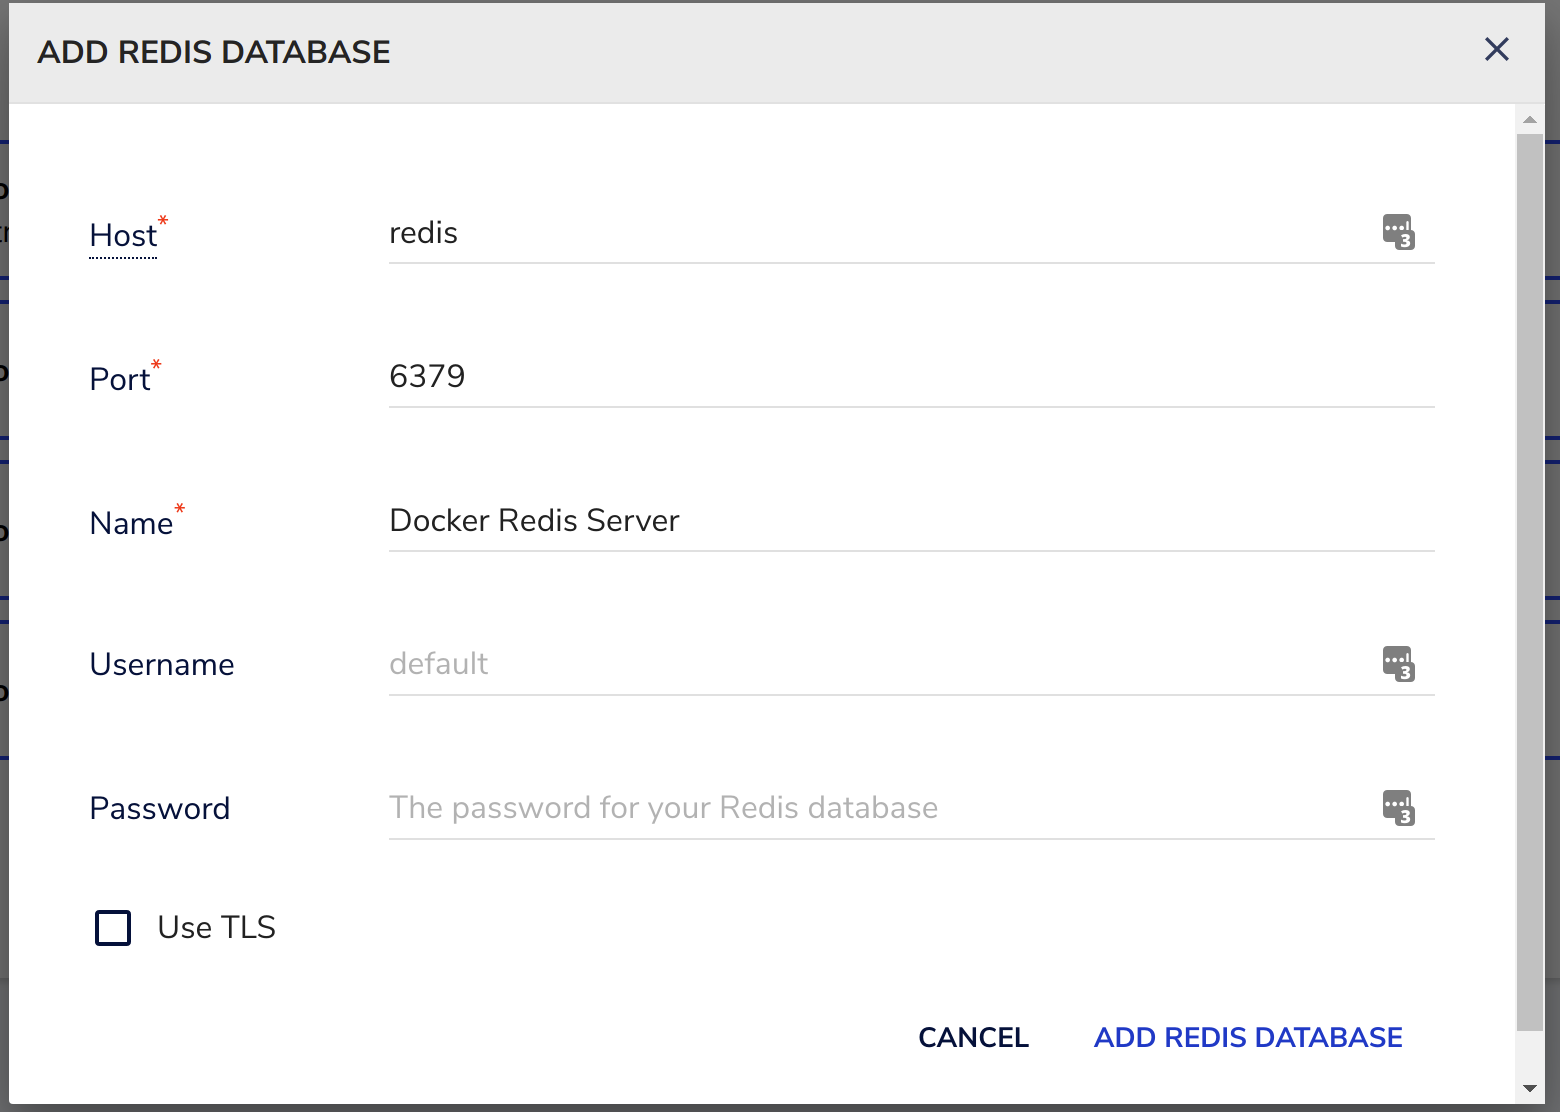
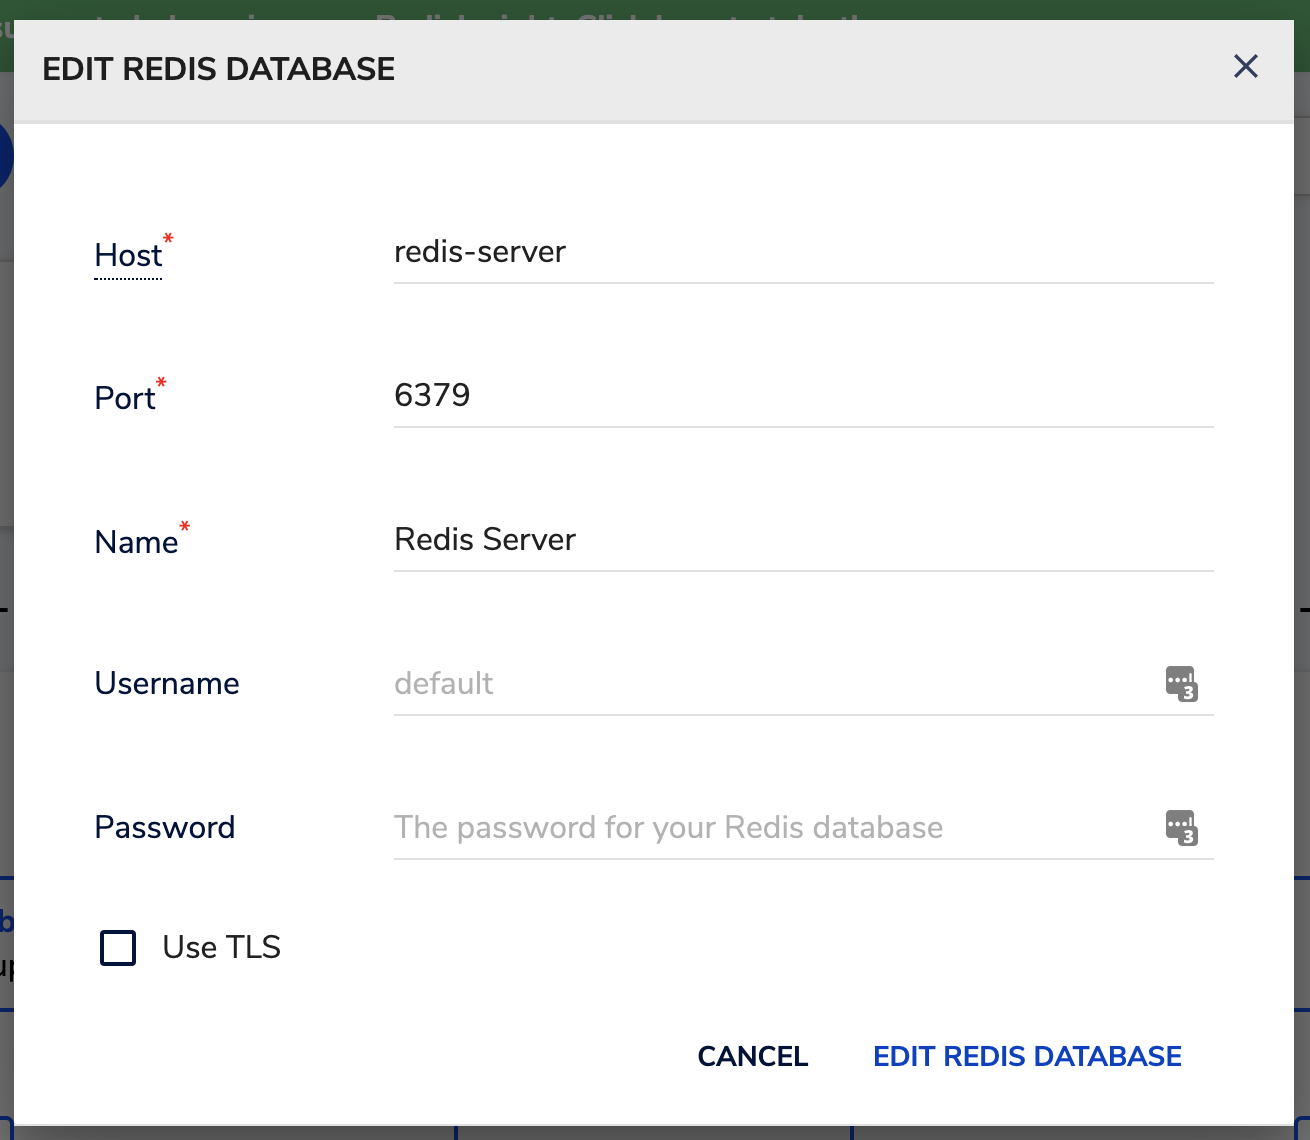
Example Updates

diff --git a/src/Examples/SimpleLock.php b/src/Examples/SimpleLock.php
@@ -1,0 +1,42 @@
+<?php
+
+declare(strict_types=1);
+
+namespace AndySnell\Talks\RedisDataStructures\Examples;
+
+use AndySnell\Talks\RedisDataStructures\Helpers\LockKey;
+
+class SimpleLock
+{
+    private const DEFAULT_TTL = 30;
+
+    private \Redis $redis;
+
+    public function __construct(RedisFactory $redis_factory = null)
+    {
+        $this->redis = ($redis_factory ?? new RedisFactory())->make();
+    }
+
+    public function lock(string $resource, LockKey $key, int $ttl = self::DEFAULT_TTL): bool
+    {
+        return $this->redis->set("locks.{$resource}", (string)$key, [
+            'EX' => $ttl,
+            'NX',
+        ]);
+    }
+
+    public function unlock(string $resource = '', LockKey $key = null): bool
+    {
+        $lock = $this->redis->get($resource);
+        if ($lock !== (string)$key) {
+            return false;
+        }
+
+        if ($lock) {
+            $this->redis->del($resource);
+        }
+
+        return true;
+
+    }
+}

diff --git a/src/Examples/PostAccess.php b/src/Examples/PostAccess.php
@@ -1,0 +1,31 @@
+<?php
+
+declare(strict_types=1);
+
+namespace AndySnell\Talks\RedisDataStructures\Examples;
+
+use Redis;
+
+class PostAccess
+{
+    public function __construct(private Redis $redis) {}
+
+    public function add(int $user_id, int $post_id): bool
+    {
+        $personal_key = "user:{$user_id}:posts";
+        return (bool)$this->redis->sAdd($personal_key, $post_id);
+    }
+
+    public function check(int $user_id, int $team_id, int $post_id): bool
+    {
+        $personal_key = "user:{$user_id}:posts";
+        $team_key = "team:{$team_id}:posts";
+        $union_key = "temp:allposts:{$user_id}";
+        $pipe = $this->redis->multi();
+        $pipe->sInterStore($union_key, $personal_key, $team_key);
+        $pipe->sIsMember($union_key, $post_id);
+        $pipe->del($union_key);
+        $result = $pipe->exec();
+        return (bool)$result[1];
+    }
+}

diff --git a/src/Examples/ZipCodeBanList.php b/src/Examples/ZipCodeBanList.php
@@ -1,0 +1,32 @@
+<?php
+
+declare(strict_types=1);
+
+namespace AndySnell\Talks\RedisDataStructures\Examples;
+
+use AndySnell\Talks\RedisDataStructures\Helpers\ZipCode;
+
+class ZipCodeBanList
+{
+    private \Redis $redis;
+
+    public function __construct(RedisFactory $redis_factory = null)
+    {
+        $this->redis = ($redis_factory ?? new RedisFactory())->make();
+    }
+
+    public function add(ZipCode $zip_code): bool
+    {
+        return (bool)$this->redis->setBit($zip_code->getFirst5(), (int)$zip_code->getPlus4(), 1);
+    }
+
+    public function remove(ZipCode $zip_code): bool
+    {
+        return (bool)$this->redis->setBit($zip_code->getFirst5(), (int)$zip_code->getPlus4(), 0);
+    }
+
+    public function check(ZipCode $zip_code): bool
+    {
+        return (bool)$this->redis->getBit($zip_code->getFirst5(), (int)$zip_code->getPlus4());
+    }
+}

diff --git a/src/Examples/RateLimiter.php b/src/Examples/RateLimiter.php
@@ -1,0 +1,28 @@
+<?php
+
+declare(strict_types=1);
+
+namespace AndySnell\Talks\RedisDataStructures\Examples;
+
+use AndySnell\Talks\RedisDataStructures\Helpers\RateLimitExceeded;
+use Redis;
+
+class RateLimiter
+{
+    public function __construct(private Redis $redis) {}
+
+    public function check(string $request_source_id, $requests_per_minute = 120): void
+    {
+        $key = "ratelimit:" . $request_source_id;
+
+        $pipe = $this->redis->multi(Redis::PIPELINE);
+        $pipe->zAdd($key, time(), bin2hex(\random_bytes(16)));
+        $pipe->expire($key, 60);
+        $pipe->zRemRangeByScore($key, 0, time() - 60);
+        $pipe->zCard($key);
+        $pipe_results = $pipe->exec(); // [1, true, 0, 1]
+        if ($pipe_results[3] > $requests_per_minute) {
+            throw new RateLimitExceeded();
+        }
+    }
+}

diff --git a/src/Examples/Debouncer.php b/src/Examples/Debouncer.php
@@ -1,0 +1,27 @@
+<?php
+
+declare(strict_types=1);
+
+namespace AndySnell\Talks\RedisDataStructures\Examples;
+
+class Debouncer
+{
+    private const DEFAULT_TTL = 30;
+
+    private \Redis $redis;
+
+    public function __construct(RedisFactory $redis_factory = null)
+    {
+        $this->redis = ($redis_factory ?? new RedisFactory())->make();
+    }
+
+    public function run(string $debounce_key, callable $callable): void
+    {
+        if($this->redis->exists($debounce_key)){
+            return;
+        }
+
+        $this->redis->set($debounce_key, 1, self::DEFAULT_TTL);
+        $callable();
+    }
+}

diff --git a/README.md b/README.md
@@ -38,7 +38,7 @@ your localhost machine.
 1. Start the Docker Compose[^1] application with `docker-compose up -d`
 2. Navigate to localhost:8001 in your web browser
 3. Review and agree to the license terms.
-4. Add a new Redis Database with hostname `redis`, port `6379`, and your choice
+4. Add a new Redis Database with hostname `redis-server`, port `6379`, and your choice
    of name.
 
 ![Adding a New Database to RedisInsight](assets/adding-redis-database-to-redisinsight.png)
